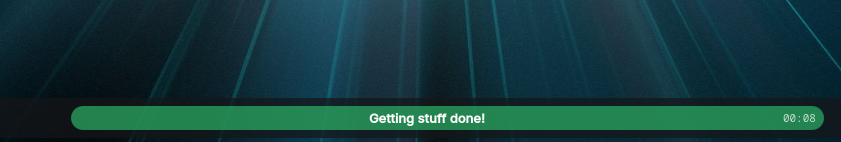
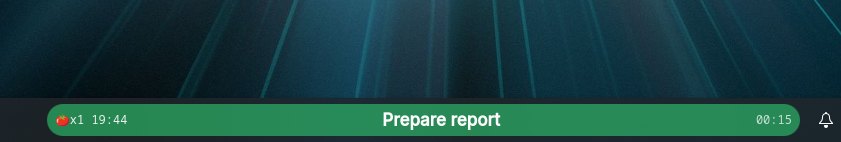
docs(screenshots): refresh for 2.0.0 pomodoro UI

diff --git a/README.md b/README.md
@@ -66,6 +66,8 @@ Setting the same text again keeps the timer running; changing the text resets it
 
 ![Task entry popup](screenshots/popup.png)
 
+![Context menu with pomodoro actions](screenshots/context-menu.png)
+
 ![Settings dialog](screenshots/settings.png)
 
 ## Development
